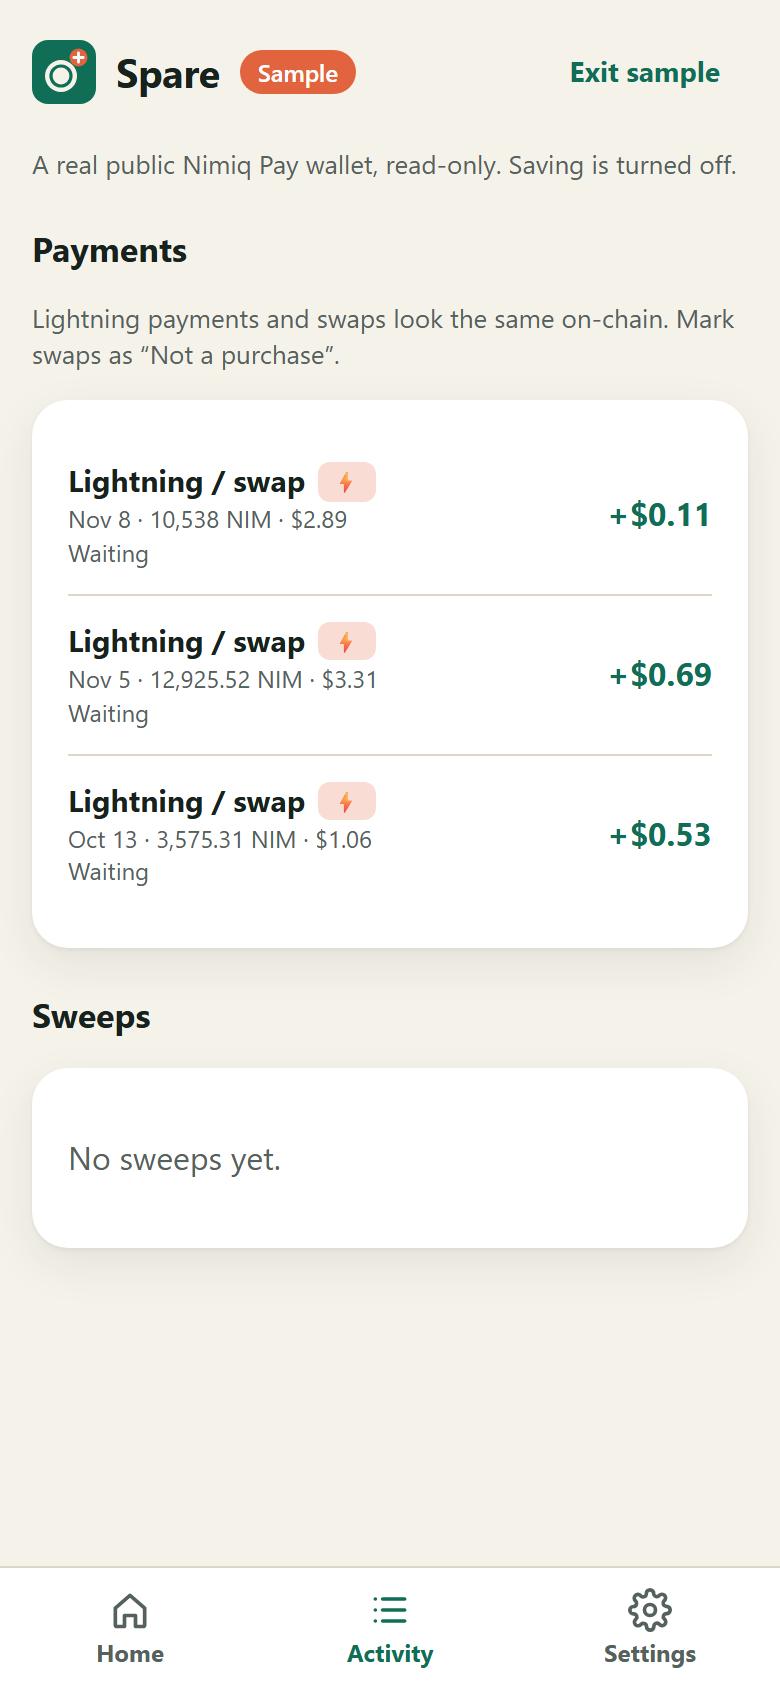
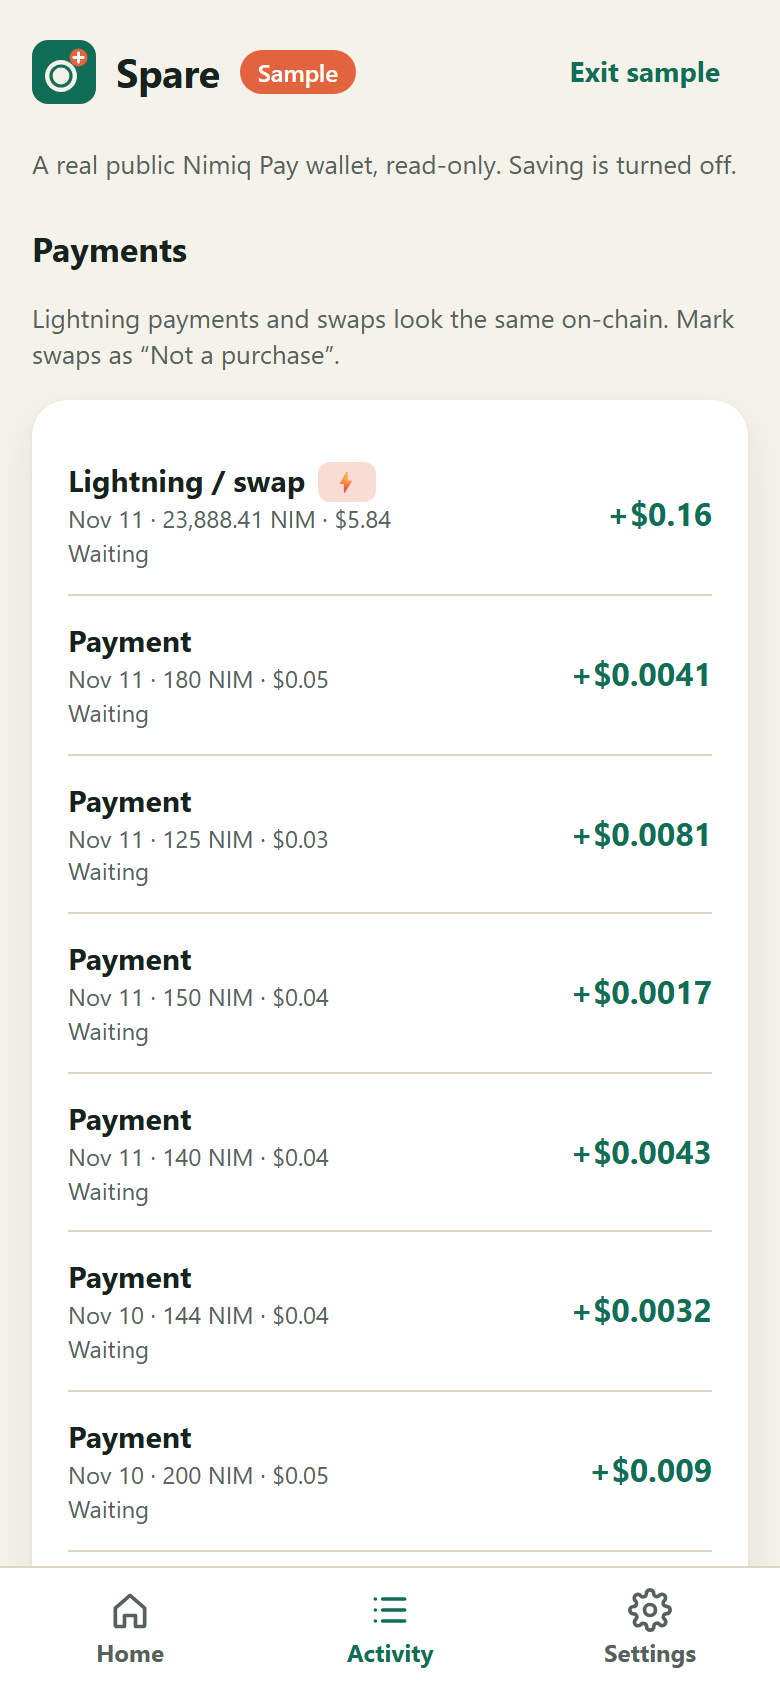
task 5: sample wallet from find-sample (NQ45 → NQ20 → NQ51 fallback), retaken screenshots

diff --git a/src/ui/useSpare.ts b/src/ui/useSpare.ts
@@ -34,8 +34,18 @@ export const store = createStore()
 export const FIATS: FiatCode[] = ['USD', 'EUR', 'CRC', 'GMD']
 export const fiat: FiatCode = (FIATS as string[]).includes(host.fiat) ? (host.fiat as FiatCode) : 'USD'
 export const WINDOW_DAYS = 30
-/** A real, busy, public Nimiq Pay wallet on mainnet. Shown only as "Sample", never as a person. */
-export const SAMPLE_WALLET = 'NQ51 DE7S FX74 A8BL L7GK EYGB YVPF UK6C 8DXT'
+/**
+ * Real, public Nimiq Pay wallets on mainnet, best first (picked by scripts/find-sample.ts). Shown only as
+ * "Sample", never as a person. If one has no payments in the window, the next one is used.
+ */
+export const SAMPLE_WALLETS = [
+  // 22 ordinary payments of 100–300 NIM + 1 Lightning/swap in the 30 days to Nov 11 2026; quote ≈ 1,117 NIM.
+  'NQ45 57M8 9VMC 16NL 31D0 99M1 YX9Y HC1D NVKU',
+  // 9 payments + 2 Lightning/swap; quote ≈ 1,623 NIM.
+  'NQ20 MJRQ T2E8 3218 9XY3 QAS3 3LGG D7KE 69MU',
+  // Original sample (Lightning/swap only), kept as the last fallback.
+  'NQ51 DE7S FX74 A8BL L7GK EYGB YVPF UK6C 8DXT',
+]
 export const SAMPLE_NETWORK: Network = 'mainnet'
 
 export type Mode = { kind: 'welcome' } | { kind: 'connected'; accounts: ConnectedAccounts } | { kind: 'sample' }
@@ -97,9 +107,10 @@ export function useSpare() {
   const [status, setStatus] = useState<SpendStatusData>({ excluded: [], swept: [] })
   const [sweeps, setSweeps] = useState<SweepRecord[]>([])
   const [sweepUi, setSweepUi] = useState<SweepPhase>({ phase: 'idle' })
+  const [sampleIndex, setSampleIndex] = useState(0)
   setThrottledGlobal = setThrottled
 
-  const wallet = mode.kind === 'connected' ? mode.accounts.walletAddress : mode.kind === 'sample' ? SAMPLE_WALLET : null
+  const wallet = mode.kind === 'connected' ? mode.accounts.walletAddress : mode.kind === 'sample' ? SAMPLE_WALLETS[sampleIndex] : null
   const network: Network = mode.kind === 'sample' ? SAMPLE_NETWORK : host.network
   const rpc = rpcFor(network)
   const runId = useRef(0)
@@ -146,6 +157,11 @@ export function useSpare() {
     setSweeps(loadSweeps(store, network, wallet))
     void loadHistory()
   }, [wallet, network, loadHistory])
+
+  // An empty sample would explain nothing: fall back to the next sample wallet.
+  useEffect(() => {
+    if (mode.kind === 'sample' && historyState === 'ready' && trace?.spends.length === 0 && sampleIndex < SAMPLE_WALLETS.length - 1) setSampleIndex((i) => i + 1)
+  }, [mode.kind, historyState, trace, sampleIndex])
 
   // ---- prices (need the spend days) ----
   const dayList = useMemo(() => (trace ? [...new Set(trace.spends.map((s) => dayKey(s.timestamp)))].sort().join(',') : null), [trace])

diff --git a/scripts/find-sample.ts b/scripts/find-sample.ts
@@ -28,7 +28,11 @@ const head = await rpc.getBlockNumber()
 const vaults = new Set<string>()
 const payees = new Map<string, number>()
 for (let n = head; n > head - blocksToWalk; n--) {
-  const b = await rpc.getBlockByNumber(n)
+  // One bad block must not end the search.
+  const b = await rpc.getBlockByNumber(n).catch((e) => {
+    log(`block ${n}: ${String(e)}`)
+    return { transactions: [] as RpcTransaction[] }
+  })
   for (const t of b.transactions ?? []) {
     if (!isVaultPayment(t)) continue
     vaults.add(t.from)
@@ -53,7 +57,8 @@ for (const c of claimed.slice(0, 25)) {
   const h = await rpc.getTransactionsByAddress(c.from, 10)
   const creation = h.find((t) => t.to === c.from && t.toType === AccountType.Htlc && t.flags === 1)
   const d = creation && decodeHtlcData(creation.recipientData)
-  if (d) owners.add(d.sender)
+  // The hub funds its own HTLCs too (sender = hub): it is the swap service, not a Pay user.
+  if (d && d.sender !== SWAP_HUB) owners.add(d.sender)
 }
 log(`${owners.size} owners from swap-hub claims`)
 for (const v of vaults) {
